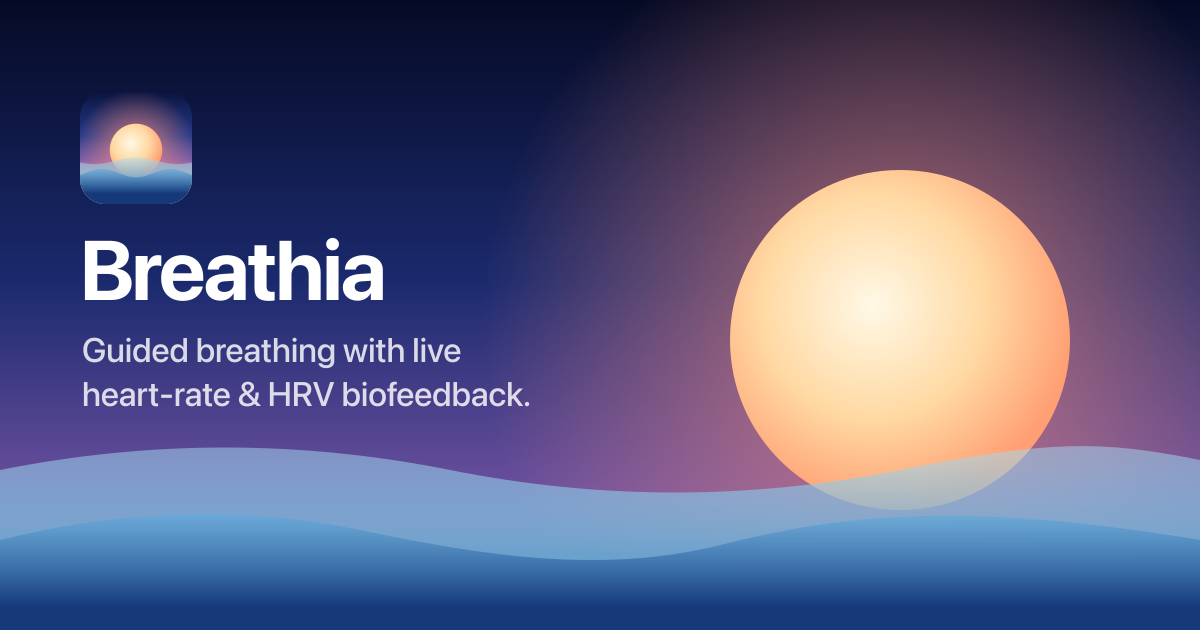
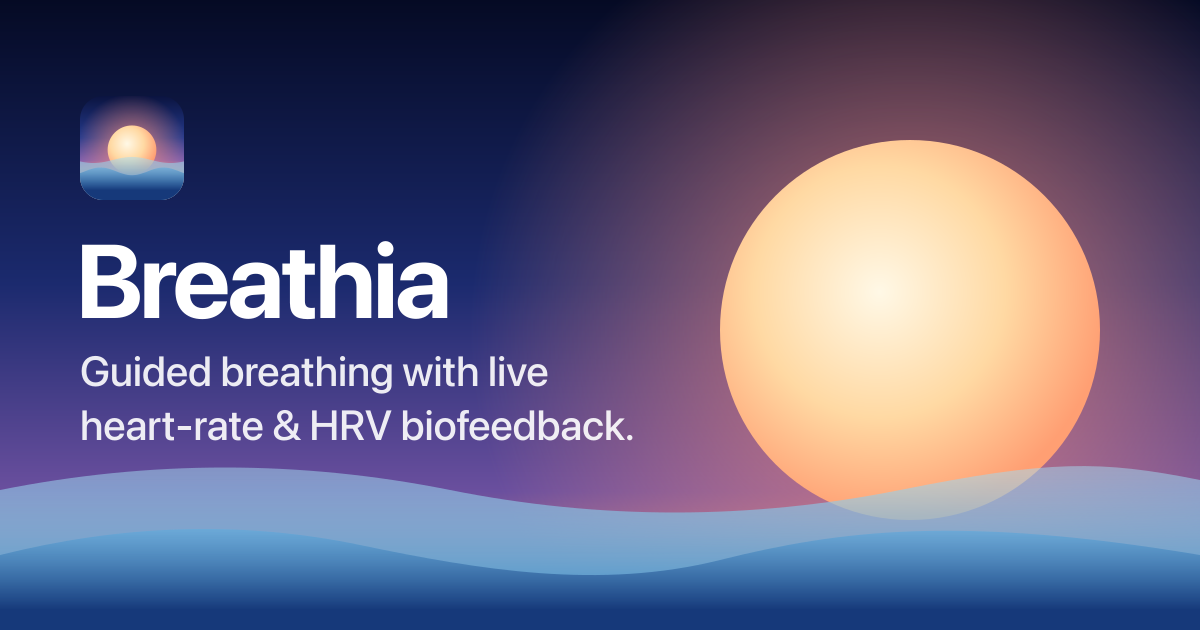
Point the canonical and social preview URLs at breathia.linkandreas.de
The default site URL was https://www.linkandreas.de/breathia/, which returns 404, so link
previews (LinkedIn and others) could not load the page's image. Also enlarge the type in the
social preview image and add og:image:type, twitter:image and author tags.

diff --git a/scripts/templates/layout.js b/scripts/templates/layout.js
@@ -67,6 +67,7 @@ export function renderDocument({ lang, t, page, title, description, content, hea
     <meta name="viewport" content="width=device-width, initial-scale=1, viewport-fit=cover" />
     <title>${escapeHtml(title)}</title>
     <meta name="description" content="${escapeHtml(description)}" />
+    <meta name="author" content="${escapeHtml(site.developer.name)}" />
     <link rel="canonical" href="${url}" />
     ${alternates}
     <link rel="alternate" hreflang="x-default" href="${absolute(routes[page](languages[0]))}" />
@@ -83,10 +84,12 @@ export function renderDocument({ lang, t, page, title, description, content, hea
     <meta property="og:description" content="${escapeHtml(ogDescription ?? description)}" />
     <meta property="og:url" content="${url}" />
     <meta property="og:image" content="${absolute('og-image.png')}" />
+    <meta property="og:image:type" content="image/png" />
     <meta property="og:image:width" content="1200" />
     <meta property="og:image:height" content="630" />
     <meta property="og:image:alt" content="${escapeHtml(t.meta.ogImageAlt)}" />
     <meta name="twitter:card" content="summary_large_image" />
+    <meta name="twitter:image" content="${absolute('og-image.png')}" />
     ${head}
     <script>
       document.documentElement.classList.add('js');

diff --git a/content/site.js b/content/site.js
@@ -2,7 +2,7 @@
 const appStoreId = '6812983709';
 
 /** Canonical, absolute URL of the deployed site. Override with SITE_URL at build time. */
-const siteUrl = (process.env.SITE_URL || 'https://www.linkandreas.de/breathia/').replace(/\/?$/, '/');
+const siteUrl = (process.env.SITE_URL || 'https://breathia.linkandreas.de/').replace(/\/?$/, '/');
 
 export const site = {
   /** Canonical, absolute URL of the deployed site, with a trailing slash. */

diff --git a/README.md b/README.md
@@ -110,7 +110,7 @@ To run it locally:
 
 `npm run build` outputs a static site in `dist/` with relative asset URLs, so it can be served from
 any host and path. `SITE_URL` sets the canonical URL used in links, the sitemap and `robots.txt`
-(default `https://www.linkandreas.de/breathia/`, see `content/site.js`).
+(default `https://breathia.linkandreas.de/`, see `content/site.js`).
 
 ## License
 
